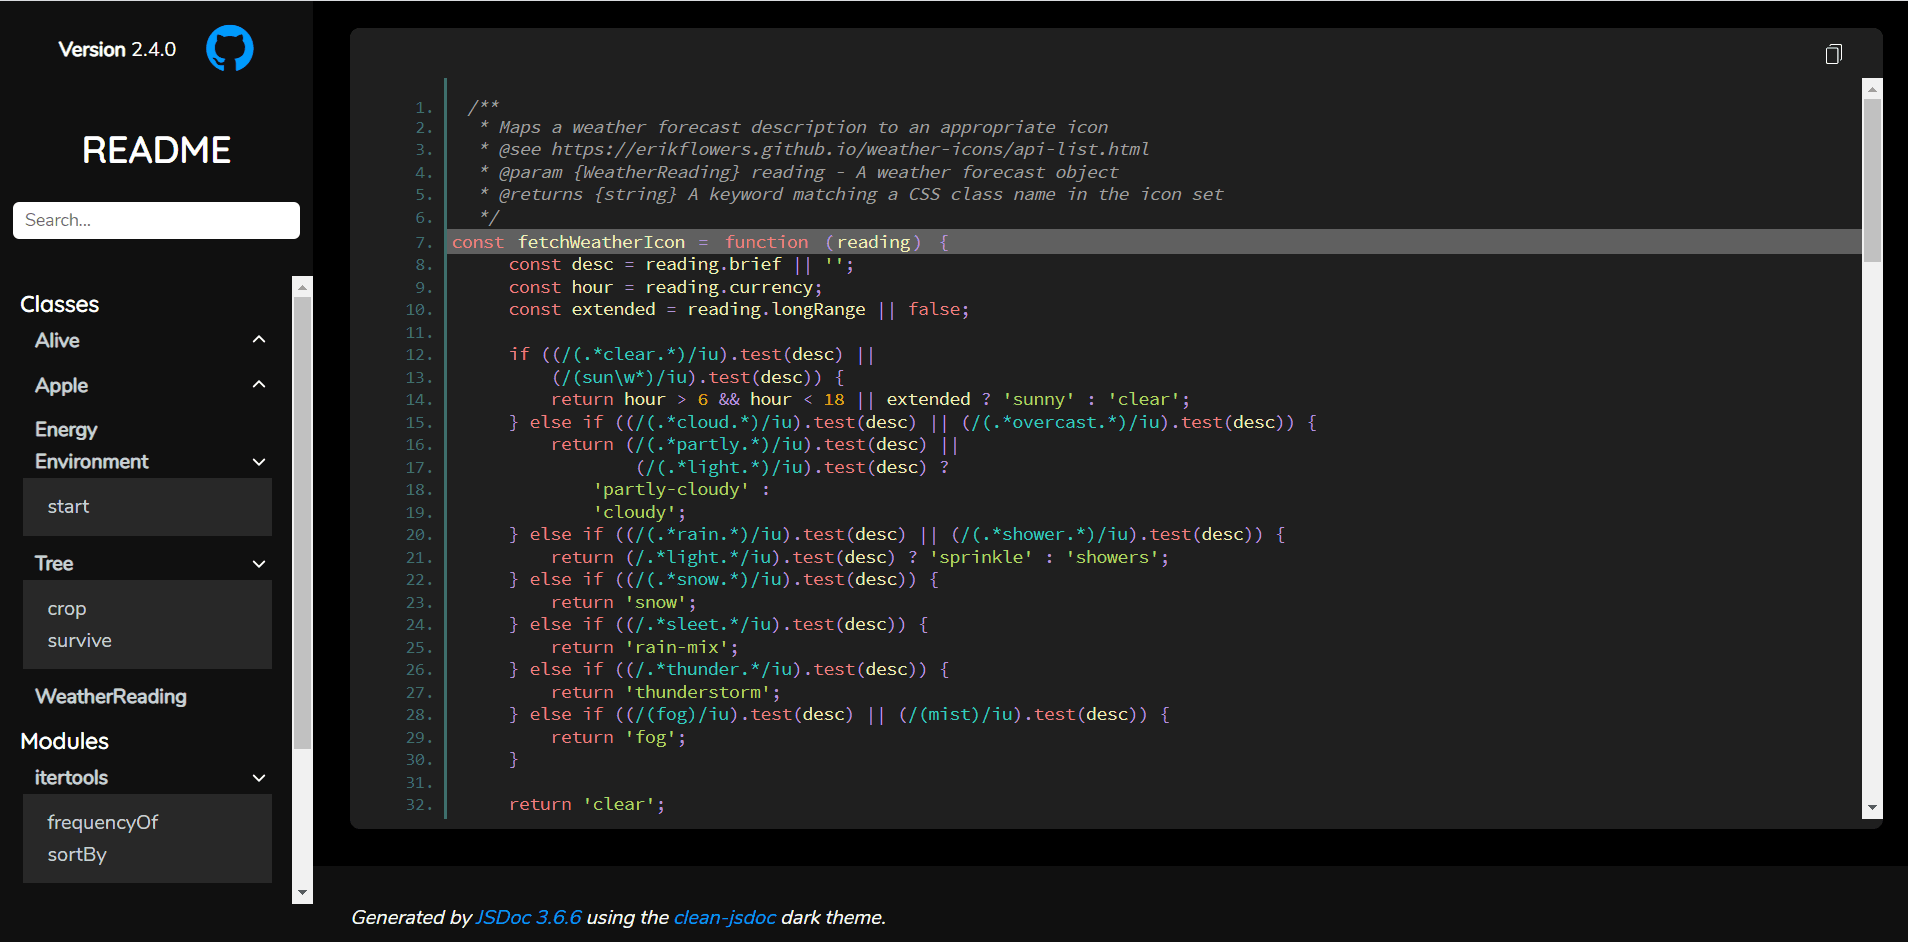
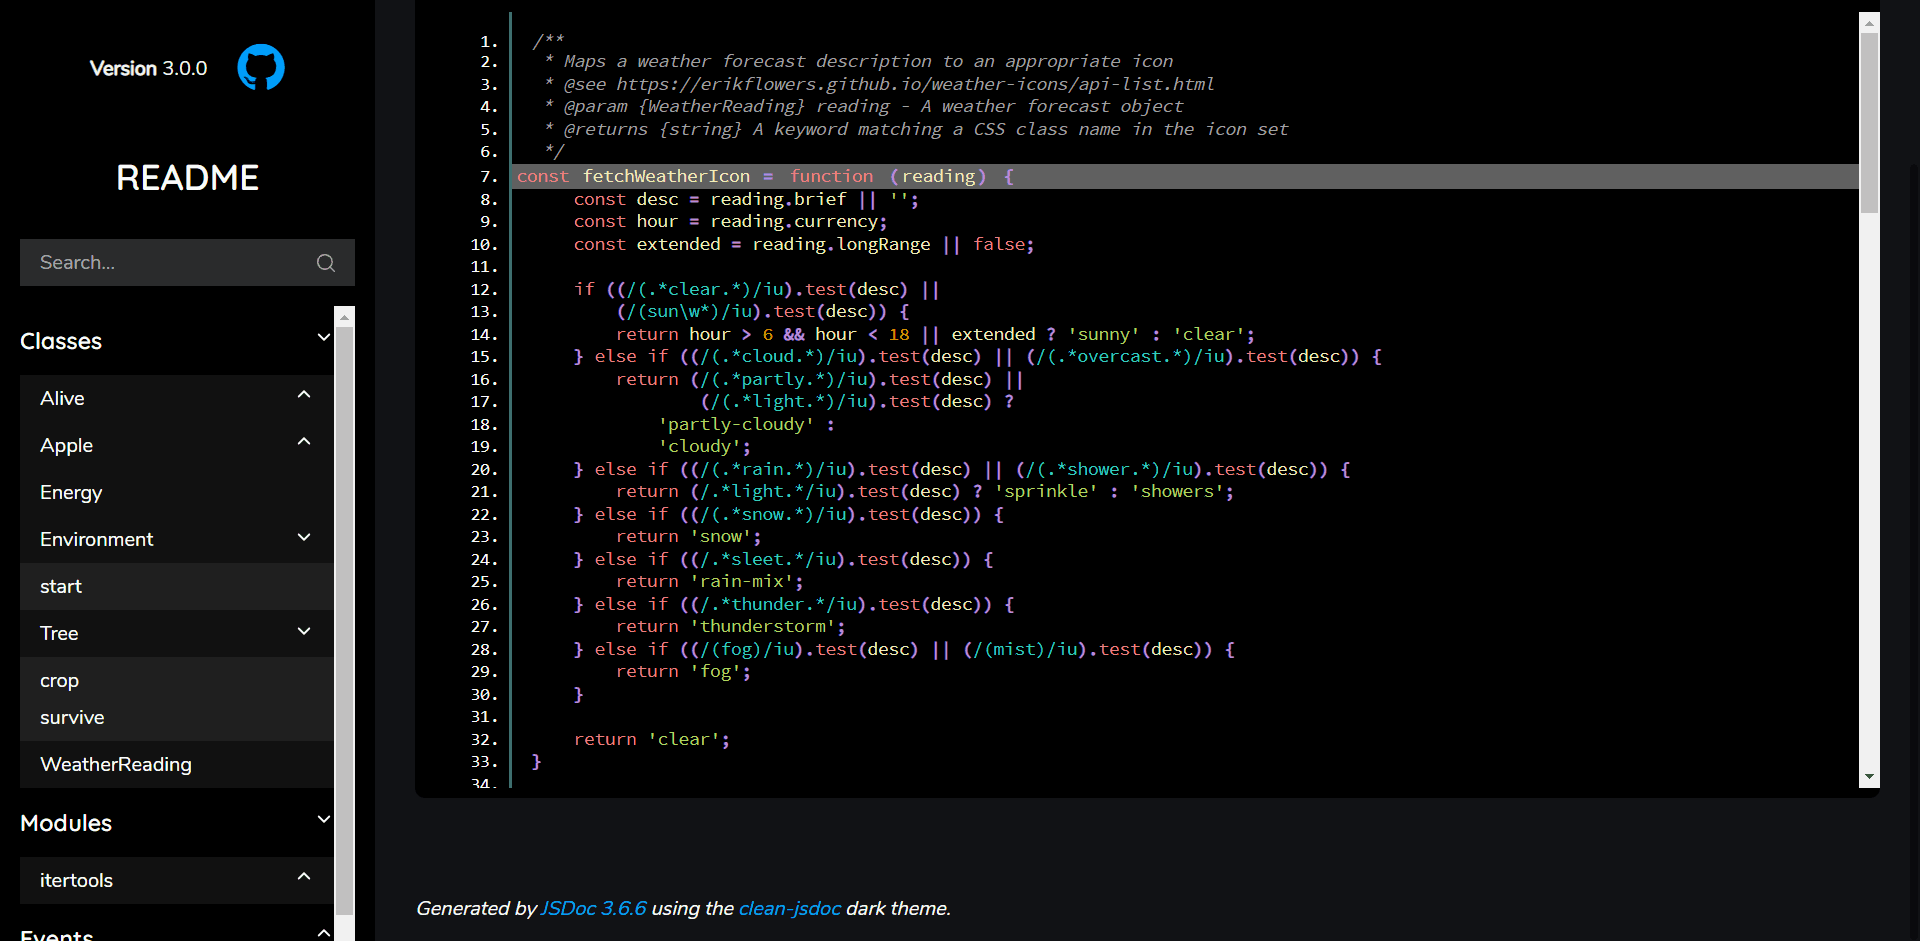
Require minimum npm version

diff --git a/static/styles/jsdoc-default.css b/static/styles/jsdoc-default.css
@@ -377,7 +377,6 @@ code {
 .page-title {
     font-size: 30px;
     font-weight: 1000;
-    margin-top: 0;
 }
 
 /* Make sure the README is readable! */

diff --git a/static/styles/clean-jsdoc-theme-light.css b/static/styles/clean-jsdoc-theme-light.css
@@ -9,7 +9,7 @@ body {
 }
 
 a, a:active, a:focus {
-    color: #22ae9a;
+    color: #008b8b;
     font-weight: bold;
 }
 

diff --git a/README.md b/README.md
@@ -11,10 +11,10 @@
 
 <div align="center">
 
-![light_doc_page](https://heredocs.com/clean-jsdoc-theme/img/light_doc_example.png)
-![light_code_example](https://heredocs.com/clean-jsdoc-theme/img/light_code_example.png)
-![dark_doc_page](https://heredocs.com/clean-jsdoc-theme/img/dark_doc_example.png)
-![dark_code_example](https://heredocs.com/clean-jsdoc-theme/img/dark_code_example.png)
+![light_code_example](https://rdipardo.github.io/clean-jsdoc-theme/img/light_code_example.png)
+![light_doc_page](https://rdipardo.github.io/clean-jsdoc-theme/img/light_doc_example.png)
+![dark_code_example](https://rdipardo.github.io/clean-jsdoc-theme/img/dark_code_example.png)
+![dark_doc_page](https://rdipardo.github.io/clean-jsdoc-theme/img/dark_doc_example.png)
 </div>
 
 - [Getting Started](#quick-start)
@@ -124,7 +124,7 @@ Details of your project, e.g.
 ```json
   "project": {
       "title": "clean-jsdoc",
-      "version": "2.4.0",
+      "version": "3.0.0",
       "repo": "https://github.com/rdipardo/clean-jsdoc-theme"
   }
 ```
